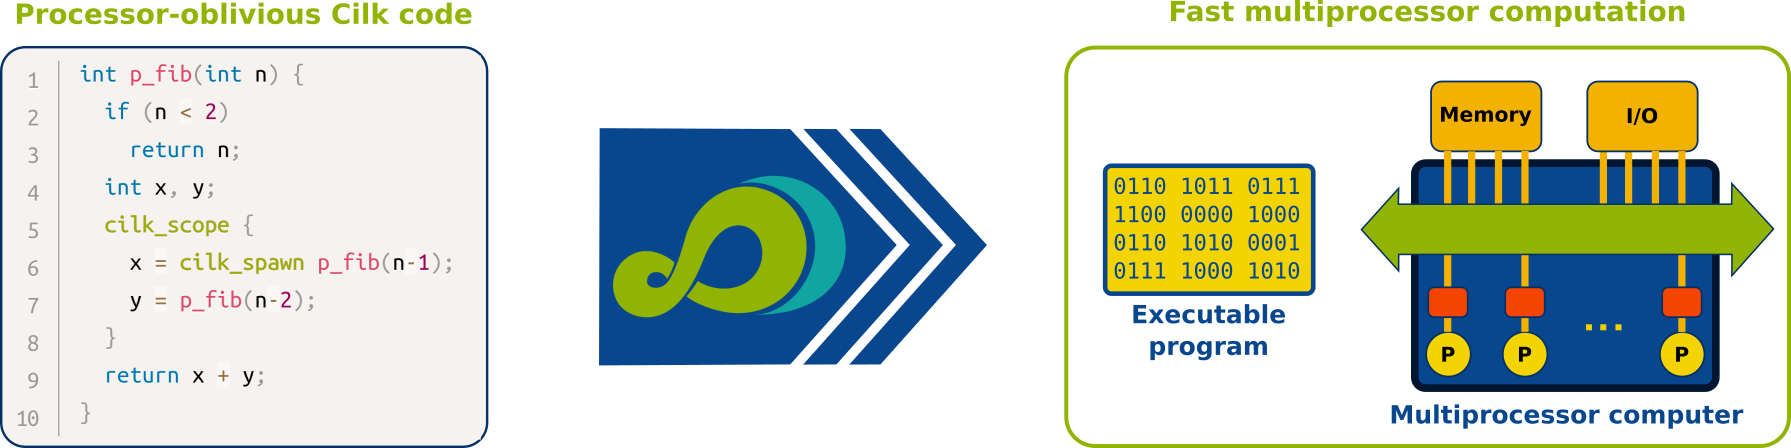
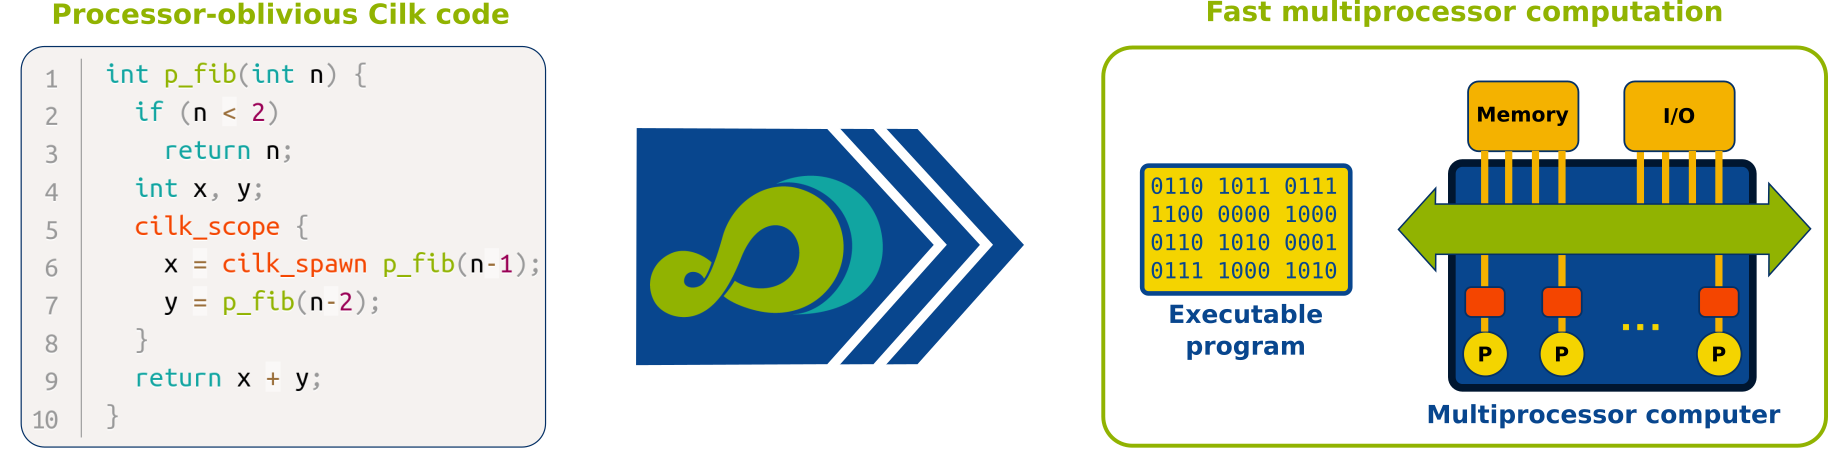
cilkc in prismjs for intro to cilk programming

diff --git a/src/css/prism.css b/src/css/prism.css
@@ -1,4 +1,188 @@
-/* PrismJS 1.28.0
-https://prismjs.com/download.html#themes=prism&languages=markup+css+clike+javascript+c+cpp&plugins=line-numbers */
-code[class*=language-],pre[class*=language-]{color:#000;background:0 0;text-shadow:0 1px #fff;font-family 'Ubuntu Mono','DejaVu Sans Mono','Liberation Mono',monospace;font-size:105%;text-align:left;white-space:pre;word-spacing:normal;word-break:normal;word-wrap:normal;line-height:1.5;-moz-tab-size:4;-o-tab-size:4;tab-size:4;-webkit-hyphens:none;-moz-hyphens:none;-ms-hyphens:none;hyphens:none}code[class*=language-] ::-moz-selection,code[class*=language-]::-moz-selection,pre[class*=language-] ::-moz-selection,pre[class*=language-]::-moz-selection{text-shadow:none;background:#b3d4fc}code[class*=language-] ::selection,code[class*=language-]::selection,pre[class*=language-] ::selection,pre[class*=language-]::selection{text-shadow:none;background:#b3d4fc}@media print{code[class*=language-],pre[class*=language-]{text-shadow:none}}pre[class*=language-]{padding:1em;margin:.5em 0;overflow:auto}:not(pre)>code[class*=language-],pre[class*=language-]{background:#f5f2f0}:not(pre)>code[class*=language-]{padding:.1em;border-radius:.3em;white-space:normal}.token.cdata,.token.comment,.token.doctype,.token.prolog{color:#708090}.token.punctuation{color:#999}.token.namespace{opacity:.7}.token.boolean,.token.constant,.token.deleted,.token.number,.token.property,.token.symbol,.token.tag{color:#905}.token.attr-name,.token.builtin,.token.char,.token.inserted,.token.selector,.token.string{color:#690}.language-css .token.string,.style .token.string,.token.entity,.token.operator,.token.url{color:#9a6e3a;background:hsla(0,0%,100%,.5)}.token.atrule,.token.attr-value,.token.keyword{color:#07a}.token.class-name,.token.function{color:#dd4a68}.token.important,.token.regex,.token.variable{color:#e90}.token.bold,.token.important{font-weight:700}.token.italic{font-style:italic}.token.entity{cursor:help}
-pre[class*=language-].line-numbers{position:relative;padding-left:3.8em;counter-reset:linenumber}pre[class*=language-].line-numbers>code{position:relative;white-space:inherit}.line-numbers .line-numbers-rows{position:absolute;pointer-events:none;top:0;font-size:100%;left:-3.8em;width:3em;letter-spacing:-1px;border-right:1px solid #999;-webkit-user-select:none;-moz-user-select:none;-ms-user-select:none;user-select:none}.line-numbers-rows>span{display:block;counter-increment:linenumber}.line-numbers-rows>span:before{content:counter(linenumber);color:#999;display:block;padding-right:.8em;text-align:right}
+/* PrismJS 1.29.0
+https://prismjs.com/download.html#themes=prism&languages=clike+bash+c+cpp+cilkc+cilkcpp&plugins=line-numbers */
+/**
+ * prism.js default theme for JavaScript, CSS and HTML
+ * Based on dabblet (http://dabblet.com)
+ * @author Lea Verou
+ */
+
+ code[class*="language-"],
+ pre[class*="language-"] {
+     color: black;
+     background: none;
+     text-shadow: 0 1px white;
+     font-family: 'Ubuntu Mono', monospace;
+     font-size: 105%;
+     text-align: left;
+     white-space: pre;
+     word-spacing: normal;
+     word-break: normal;
+     word-wrap: normal;
+     line-height: 1.3;
+ 
+     -moz-tab-size: 4;
+     -o-tab-size: 4;
+     tab-size: 4;
+ 
+     -webkit-hyphens: none;
+     -moz-hyphens: none;
+     -ms-hyphens: none;
+     hyphens: none;
+ }
+ 
+ pre[class*="language-"]::-moz-selection, pre[class*="language-"] ::-moz-selection,
+ code[class*="language-"]::-moz-selection, code[class*="language-"] ::-moz-selection {
+     text-shadow: none;
+     background: #b3d4fc;
+ }
+ 
+ pre[class*="language-"]::selection, pre[class*="language-"] ::selection,
+ code[class*="language-"]::selection, code[class*="language-"] ::selection {
+     text-shadow: none;
+     background: #b3d4fc;
+ }
+ 
+ @media print {
+     code[class*="language-"],
+     pre[class*="language-"] {
+         text-shadow: none;
+     }
+ }
+ 
+ /* Code blocks */
+ pre[class*="language-"] {
+     padding: 1em;
+     margin: .5em 0;
+     overflow: auto;
+ }
+ 
+ :not(pre) > code[class*="language-"],
+ pre[class*="language-"] {
+     background: #f5f2f0;
+ }
+ 
+ /* Inline code */
+ :not(pre) > code[class*="language-"] {
+     padding: .1em;
+     border-radius: .3em;
+     white-space: normal;
+ }
+ 
+ .token.comment,
+ .token.prolog,
+ .token.doctype,
+ .token.cdata {
+     color: slategray;
+ }
+ 
+ .token.punctuation {
+     color: #999;
+ }
+ 
+ .token.namespace {
+     opacity: .7;
+ }
+ 
+ .token.property,
+ .token.tag,
+ .token.boolean,
+ .token.number,
+ .token.constant,
+ .token.symbol,
+ .token.deleted {
+     color: #905;
+ }
+ 
+ .token.selector,
+ .token.attr-name,
+ .token.string,
+ .token.char,
+ .token.builtin,
+ .token.inserted {
+     color: #690;
+ }
+ 
+ .token.operator,
+ .token.entity,
+ .token.url,
+ .language-css .token.string,
+ .style .token.string {
+     color: #9a6e3a;
+     /* This background color was intended by the author of this theme. */
+     background: hsla(0, 0%, 100%, .5);
+ }
+
+ .token.parallel-keyword.keyword {
+     color: #f44500;
+ }
+
+ .token.atrule,
+ .token.attr-value,
+ .token.keyword {
+     color: #11a5a1;
+ }
+ 
+ .token.function,
+ .token.class-name {
+     color: #91b301;
+ }
+ 
+ .token.regex,
+ .token.important,
+ .token.variable {
+     color: #e90;
+ }
+ 
+ .token.important,
+ .token.bold {
+     font-weight: bold;
+ }
+ .token.italic {
+     font-style: italic;
+ }
+ 
+ .token.entity {
+     cursor: help;
+ }
+ 
+ pre[class*="language-"].line-numbers {
+     position: relative;
+     padding-left: 3.8em;
+     counter-reset: linenumber;
+ }
+ 
+ pre[class*="language-"].line-numbers > code {
+     position: relative;
+     white-space: inherit;
+ }
+ 
+ .line-numbers .line-numbers-rows {
+     position: absolute;
+     pointer-events: none;
+     top: 0;
+     font-size: 100%;
+     left: -3.8em;
+     width: 3em; /* works for line-numbers below 1000 lines */
+     letter-spacing: -1px;
+     border-right: 1px solid #999;
+ 
+     -webkit-user-select: none;
+     -moz-user-select: none;
+     -ms-user-select: none;
+     user-select: none;
+ 
+ }
+ 
+     .line-numbers-rows > span {
+         display: block;
+         counter-increment: linenumber;
+     }
+ 
+         .line-numbers-rows > span:before {
+             content: counter(linenumber);
+             color: #999;
+             display: block;
+             padding-right: 0.8em;
+             text-align: right;
+         }
+ 

diff --git a/src/doc/tutorials/introduction-to-cilk-programming.md b/src/doc/tutorials/introduction-to-cilk-programming.md
@@ -91,7 +91,7 @@ parallel region (that is, the call to `p_fib(n-2)` in line 7).  The end of the
 `cilk_scope` in line 8 guarantees that the spawned function has finished before
 the return statement in line 9 is executed.
 
-```c#
+```cilkc#
 int p_fib(int n) {
   if (n < 2)
     return n;                   // base case
@@ -121,7 +121,7 @@ have been evaluated.
 spawned.  For instance, you can spawn a computation using a function pointer or
 member function pointer, as in:
 
-```c
+```cilkc
 var = cilk_spawn (object.*pointer)(arg1, arg2);
 ```
 
@@ -137,7 +137,7 @@ any state that may change as a side-effect of a spawned function.
 
 **Incorrect:**
 
-```c
+```cilkc
 cilk_scope {
   x = cilk_spawn p_fib(n-1);
   y = p_fib(n-2);
@@ -151,7 +151,7 @@ cilk_scope {
 
 **Correct:**
 
-```c
+```cilkc
 cilk_scope {
   x = cilk_spawn p_fib(n-1);
   y = p_fib(n-2);
@@ -170,7 +170,7 @@ outside the `cilk_scope` block (which is where its value is assigned).
 
 **Incorrect:**
 
-```c
+```cilkc
 cilk_scope {
   int x = cilk_spawn p_fib(n-1);
   int y = p_fib(n-2);
@@ -188,7 +188,7 @@ nested within another scope that also uses `x` and `y` identifiers.
 
 **Correct:**
 
-```c
+```cilkc
 int x, y;
 cilk_scope {
   x = cilk_spawn p_fib(n-1);
@@ -212,7 +212,7 @@ program, the result is a valid and correct serial program.  For example, if you
 do this with the `p_fib()` function code above, you end up with the following
 function, which we call `fib()`:
 
-```c#
+```cilkc#
 int fib(int n) {
   if (n < 2)
     return n;
